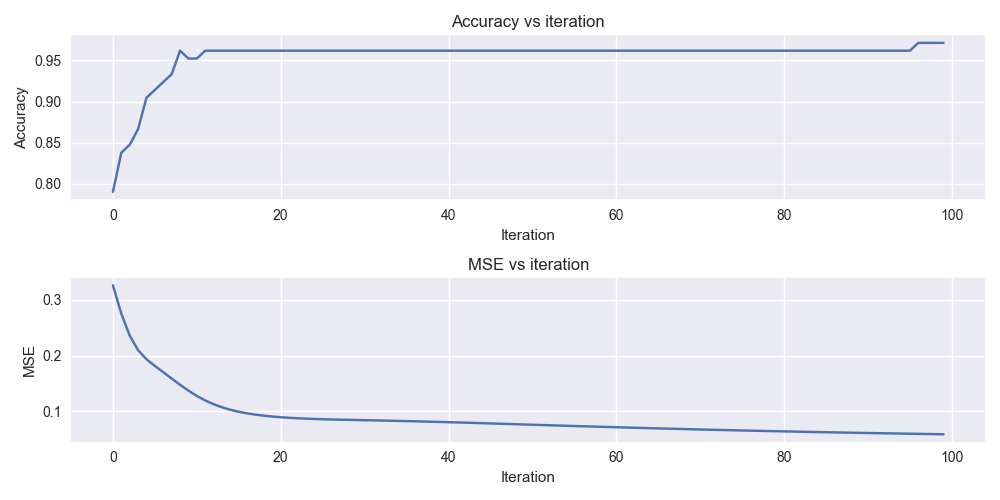
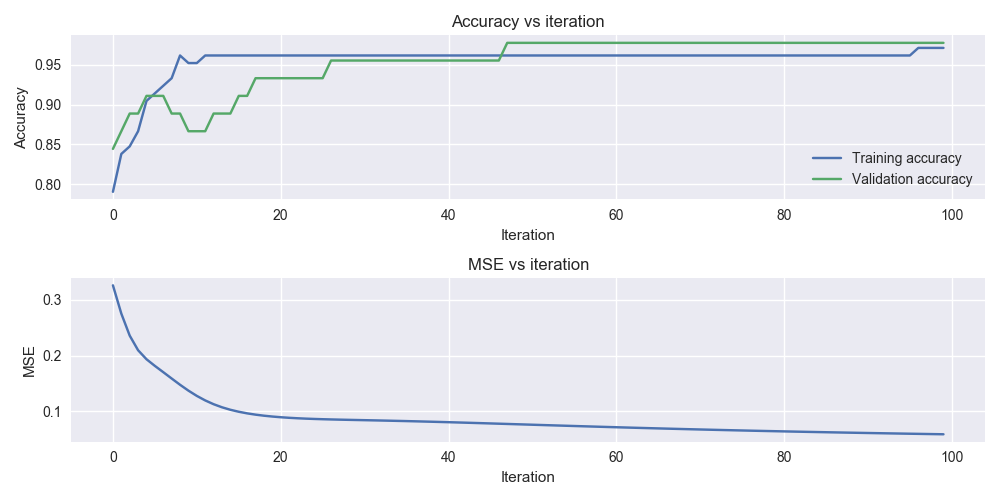
fix: now the neural network supports validation accuracy visualization. docs: readme update.

diff --git a/src/neural_network/NeuralNetwork.py b/src/neural_network/NeuralNetwork.py
@@ -23,7 +23,11 @@ class NeuralNetwork:
         self.neural_network = self._build_neural_network(architecture, activation_func=self.activation_functions)
         self.x = None
         self.y = None
-        self.summary = Summary()
+        self.x_val = None
+        self.y_val = None
+        self.summary_train = Summary()
+        self.summary_val = Summary()
+        self.has_val = False
 
     @staticmethod
     def _check_architecture_list(architecture: list):
@@ -75,23 +79,62 @@ class NeuralNetwork:
             neural_network.append(layer)
         return neural_network
 
-    def fit(self, x_train, y_train):
+    def _check_data(self, x, y):
         """
-        Fits the data to the neural network.
-        :param x_train:                     A 2D Numpy Array.
-        :param y_train:                     A 1D Numpy Array with targets.
+        Checks that given data is correct. Otherwise this method will raise AssertionError.
+        :param x:                               Input data (can be training, validation or testing data) as a 2D
+                                                Numpy array.
+        :param y:                               Output data (can be training, validation or testing data) as a 2D or 1D
+                                                Numpy array.
+        :return:
         """
 
-        assert x_train.shape[1] == self.n_input, "The number of features of the input must be {}".format(self.n_input)
-        assert y_train.shape[0] == x_train.shape[0], "The target vector must have length: {}".format(x_train.shape[0])
+        # Assert for the training fitting
+        assert x.shape[1] == self.n_input, "The number of features of the input must be {}".format(self.n_input)
+        assert y.shape[0] == x.shape[0], "The target vector must have length: {}".format(x.shape[0])
 
         # Target length error
         msg = "The output of the NN must be equals to the target dimension."
-        if len(y_train.shape) == 1:
+        if len(y.shape) == 1:
             assert 1 == self.architecture[-1], msg
         else:
-            assert y_train.shape[1] == self.architecture[-1], msg
+            assert y.shape[1] == self.architecture[-1], msg
 
+    def fit_val(self, x_train, y_train, x_val, y_val):
+        """
+        Fits the data to the neural network.
+        :param x_train:                     A 2D Numpy Array with training data.
+        :param y_train:                     A 1D Numpy Array with targets of training data.
+        :param x_val:                       A 2D Numpy Array with validation data.
+        :param y_val:                       A 1D Numpy Array with targets of validation data.
+
+        """
+
+        # Checks the data
+        self._check_data(x_train, y_train)
+        self._check_data(x_val, y_val)
+
+        self.has_val = True
+
+        # Stores the data
+        self.x = x_train
+        self.y = y_train
+
+        self.x_val = x_val
+        self.y_val = y_val
+
+    def fit(self, x_train, y_train):
+        """
+        Fits the data to the neural network.
+        :param x_train:                     A 2D Numpy Array with training data.
+        :param y_train:                     A 1D Numpy Array with targets of training data.
+
+        """
+
+        # Checks the data
+        self._check_data(x_train, y_train)
+
+        # Stores the data
         self.x = x_train
         self.y = y_train
 
@@ -200,6 +243,8 @@ class NeuralNetwork:
         assert self.x is not None and self.y is not None, "The data has not been fitted."
         assert type(epochs) == int and epochs >= 1, "The epochs is not a valid number."
 
+        evolution_train_msg = "EPOCH: {} | MSE: {:.4f} | Train acc: {:.4f} | TIME: {:.2f} ms"
+        evolution_val_msg = "EPOCH: {} | MSE: {:.4f} | Train acc: {:.4f} | Val acc {:.4f}| TIME: {:.2f} ms"
         total_time = time.time()
         for n_epoch in range(epochs):
 
@@ -219,34 +264,52 @@ class NeuralNetwork:
                 # Step 3 - Updates
                 self.bp_update(example, deltas)
 
-            self.summary.fit_and_add_step(self.y, self.predict())
+            self.summary_train.fit_and_add_step(self.y, self.predict(self.x))
+
+            if self.has_val:
+                self.summary_val.fit_and_add_step(self.y_val, self.predict(self.x_val))
 
             if verbose:
-                print("EPOCH: {} | MSE: {:.4f} | Acc: {:.4f} | TIME: {:.2f} ms".format(n_epoch+1,
-                                                                                       self.summary.get_mse(),
-                                                                                       self.summary.get_accuracy(),
-                                                                                       (time.time()-start_time)/10**-3))
+                if self.has_val:
+                    print(evolution_val_msg.format(n_epoch+1,
+                                                   self.summary_train.get_mse(),
+                                                   self.summary_train.get_accuracy(),
+                                                   self.summary_val.get_accuracy(),
+                                                   (time.time()-start_time)/10**-3))
+                else:
+                    print(evolution_train_msg.format(n_epoch+1,
+                                                     self.summary_train.get_mse(),
+                                                     self.summary_train.get_accuracy(),
+                                                     (time.time()-start_time)/10**-3))
+
         if verbose:
             print("Total Time: {:.2f} s".format((time.time()-total_time)))
 
-    def get_summary(self) -> Summary:
+    def get_summary_train(self) -> Summary:
         """
-        Gets the summary content of the last training procedure.
+        Gets the training summary content of the last training procedure.
         :return:                        A numpy array.
         """
-        return self.summary
+        return self.summary_train
 
-    def predict(self) -> np.ndarray:
+    def get_summary_val(self) -> Summary:
         """
-        This method provides the functionality to predict the values per target using the neural network.
+        Gets the validation summary content of the last training procedure.
+        :return:                        A numpy array.
+        """
+        return self.summary_val
+
+    def predict(self, batch) -> np.ndarray:
+        """
+        This method provides the functionality to predict the values per batch using the neural network.
         :return:                                A numpy array with the predicted values.
         """
 
         predicted_values = []
 
         # Make a prediction for every sample
-        for example_index in range(self.x.shape[0]):
-            predicted_values.append(self.forward(self.x[example_index, :]))
+        for example_index in range(batch.shape[0]):
+            predicted_values.append(self.forward(batch[example_index, :]))
 
         return np.array(predicted_values)
 
@@ -268,13 +331,4 @@ class NeuralNetwork:
             weights = item[0]
             biases = item[1]
             self.neural_network[pos].update(weights, biases)
-
-
-
-
-
-
-
-
-
 

diff --git a/src/neural_network/Example.py b/src/neural_network/Example.py
@@ -11,6 +11,7 @@ sys.path.extend([parent, parent_of_parent])
 
 from src.neural_network.metrics.Metrics import Metrics
 from src.neural_network.preprocessing.Normalizer import Normalizer
+from src.neural_network.metrics.Summary import Summary
 from src.neural_network.NeuralNetwork import NeuralNetwork
 import numpy as np
 from sklearn.datasets import load_iris
@@ -25,12 +26,14 @@ X = data[0]
 
 # One hot encoding and data set separation
 y, classes = Metrics.one_hot_encoding(data[1])
-X_train, X_test, y_train, y_test = train_test_split(X, y, test_size=0.3)
+X_train, X_val_test, y_train, y_val_test = train_test_split(X, y, test_size=0.7)
+x_val, x_test, y_val, y_test = train_test_split(X_val_test, y_val_test, test_size=0.5)
 
 # Normalization of the data set
 normalizer = Normalizer()
 x_train_std = normalizer.fit_transform(X_train, -1, 1)
-x_test_std = normalizer.fit_transform(X_test, -1, 1)
+x_val_std = normalizer.fit_transform(x_val, -1, 1)
+x_test_std = normalizer.fit_transform(x_test, -1, 1)
 
 # Creation of neural network architecture
 nn = NeuralNetwork(architecture=[4, 15, 3], activation_function=['tanh', 'tanh'], learning_rate=.1)
@@ -46,11 +49,17 @@ parameters = [(weights_1, biases_1), (weights_2, biases_2)]
 nn.update_weights(parameters)
 
 # Fit and train the neural network
-nn.fit(x_train_std, y_train)
+nn.fit_val(x_train_std, y_train, x_val_std, y_val)
 nn.train(100, verbose=True)
 
+# Testing the neural network
+y_test_predicted = nn.predict(x_test_std)
+test_summ = Summary()
+test_summ.fit_and_add_step(y_test, y_test_predicted)
+test_acc = test_summ.get_accuracy()
+
 # Gets the summary results
-summ = nn.get_summary()
+summ = nn.get_summary_train()
 cm = summ.get_confusion_matrix()
 Metrics.plot_confusion_matrix(cm, classes)
 
@@ -58,9 +67,16 @@ Metrics.plot_confusion_matrix(cm, classes)
 accuracy = summ.summary['accuracy']
 mse = summ.summary['mse']
 
+print("\nResults:\n")
+print("Training accuracy: {:.3f}".format(accuracy[-1]))
+print("Validation accuracy: {:.3f}".format(nn.get_summary_val().summary['accuracy'][-1]))
+print("Testing accuracy: {:.3f}".format(test_acc))
+
 fig, axs = plt.subplots(2, 1, figsize=(10, 5))
-axs[0].plot(accuracy)
+axs[0].plot(accuracy, label='Training accuracy')
+axs[0].plot(nn.get_summary_val().summary['accuracy'], label='Validation accuracy')
 axs[0].set(title='Accuracy vs iteration', ylabel='Accuracy', xlabel='Iteration')
+axs[0].legend()
 
 axs[1].plot(mse)
 axs[1].set(title='MSE vs iteration', ylabel='MSE', xlabel='Iteration')

diff --git a/src/neural_network/README.md b/src/neural_network/README.md
@@ -4,7 +4,8 @@ The code in this folder implements a lot of functionality in order to train a Ne
 
 ### DISCLAIMER
 
-I am not a native spanish speaker so maybe you might find some spelling mistakes (sorry).
+I am not a native spanish speaker so maybe you might find some spelling mistakes (sorry). I am trying to improve 
+my english abilities, thanks for your patience.
 
 Table of Contents
 ================
@@ -12,7 +13,6 @@ Table of Contents
   * [Cloning the repository](#cloning)
   * [Usage](#usage)
     * [Example execution](#example-execution)
-    * [Initialization](#arch)
   * [Analysis](#analysis)
     * [Implementation](#implementation)
     * [The rocks in the way](#the-rocks-in-the-way)
@@ -86,7 +86,10 @@ update is made after that 1 example is given to the network.
 The implementation was made using object oriented programming (OOP) in order to allow easy extensibility of the code laying 
 down the efficiency. At bird flight, the neural network is composed of neuron layers which at the time are composed of
 neurons (minimum entity). The neural layer class implements a lot of important methods like the initialization of the
-network parameters, updates of the weights and biases and parsing the function activations names to objects.
+network parameters and updates of the weights and biases. The neuron class has methods to parsing the function 
+activations names to objects, feeding and updating. The neural network contains the necessary code to implement
+the backpropagation and train the neural network. It also has some methods for robustness and prediction. It's important
+to say the neural network can fit training data, and both: training and validation data (using overloading). 
 
 At the moment exists 3 different activation functions: sigmoid, tanh and step. They are implemented in OOP and just have
 2 basic methods to obtain the evaluation of the function in a point and its derivative.
@@ -119,7 +122,14 @@ to mention that each iteration correspond to a forward-backward step of the Back
 to train the network. Equally, the Mean Squared Error decreases as much as more iterations we have.  
 
 The confusion matrix shows that the neural network efficiency is really high. The best accuracy for
-the iris data set in the training segment is of 97.14% and for the testing data set of ??. The overall
-accuracy is enough for the kind of application.  
+the iris data set in the training segment is of 100% and for the validation data set of 98.08. The overall
+accuracy is enough for this kind of application. In the testing data set, the network has a accuracy of 96.22%.
 
 ![Confusion matrix](example_resources/confusion_matrix.png)
+
+Given the results of the neural network in this data set we can say that it is over fitting the training data set.
+To adjust this result you can reduce the amount of neurons, try different learning rates or maybe increase the amount
+of data in order to increase the data variance. The reason of show this result and not other is demonstrate the
+over fitting phenomenal. After all, the results are really good, just a few examples in the testing set are being
+bad categorized.
+  
